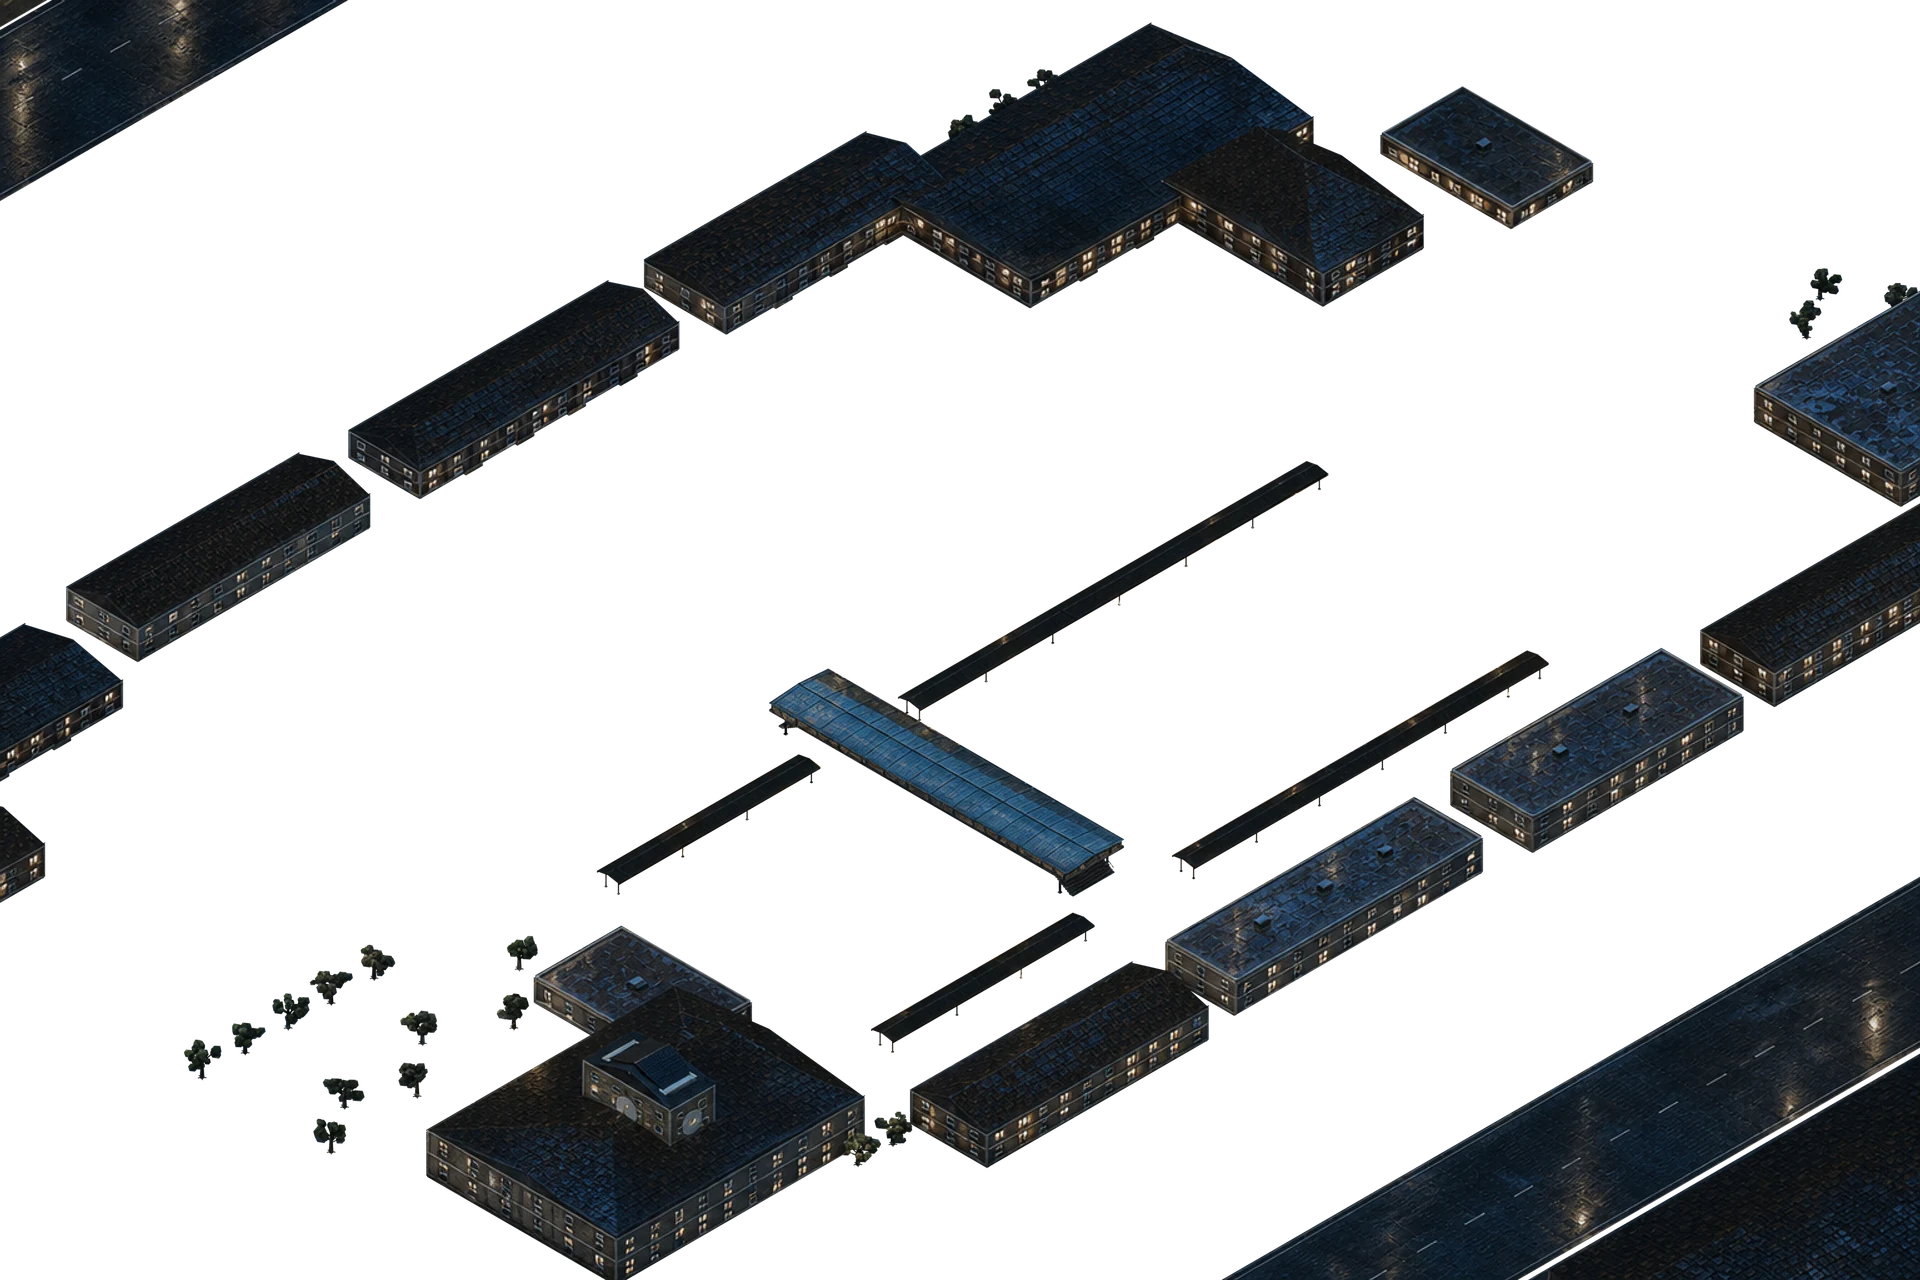
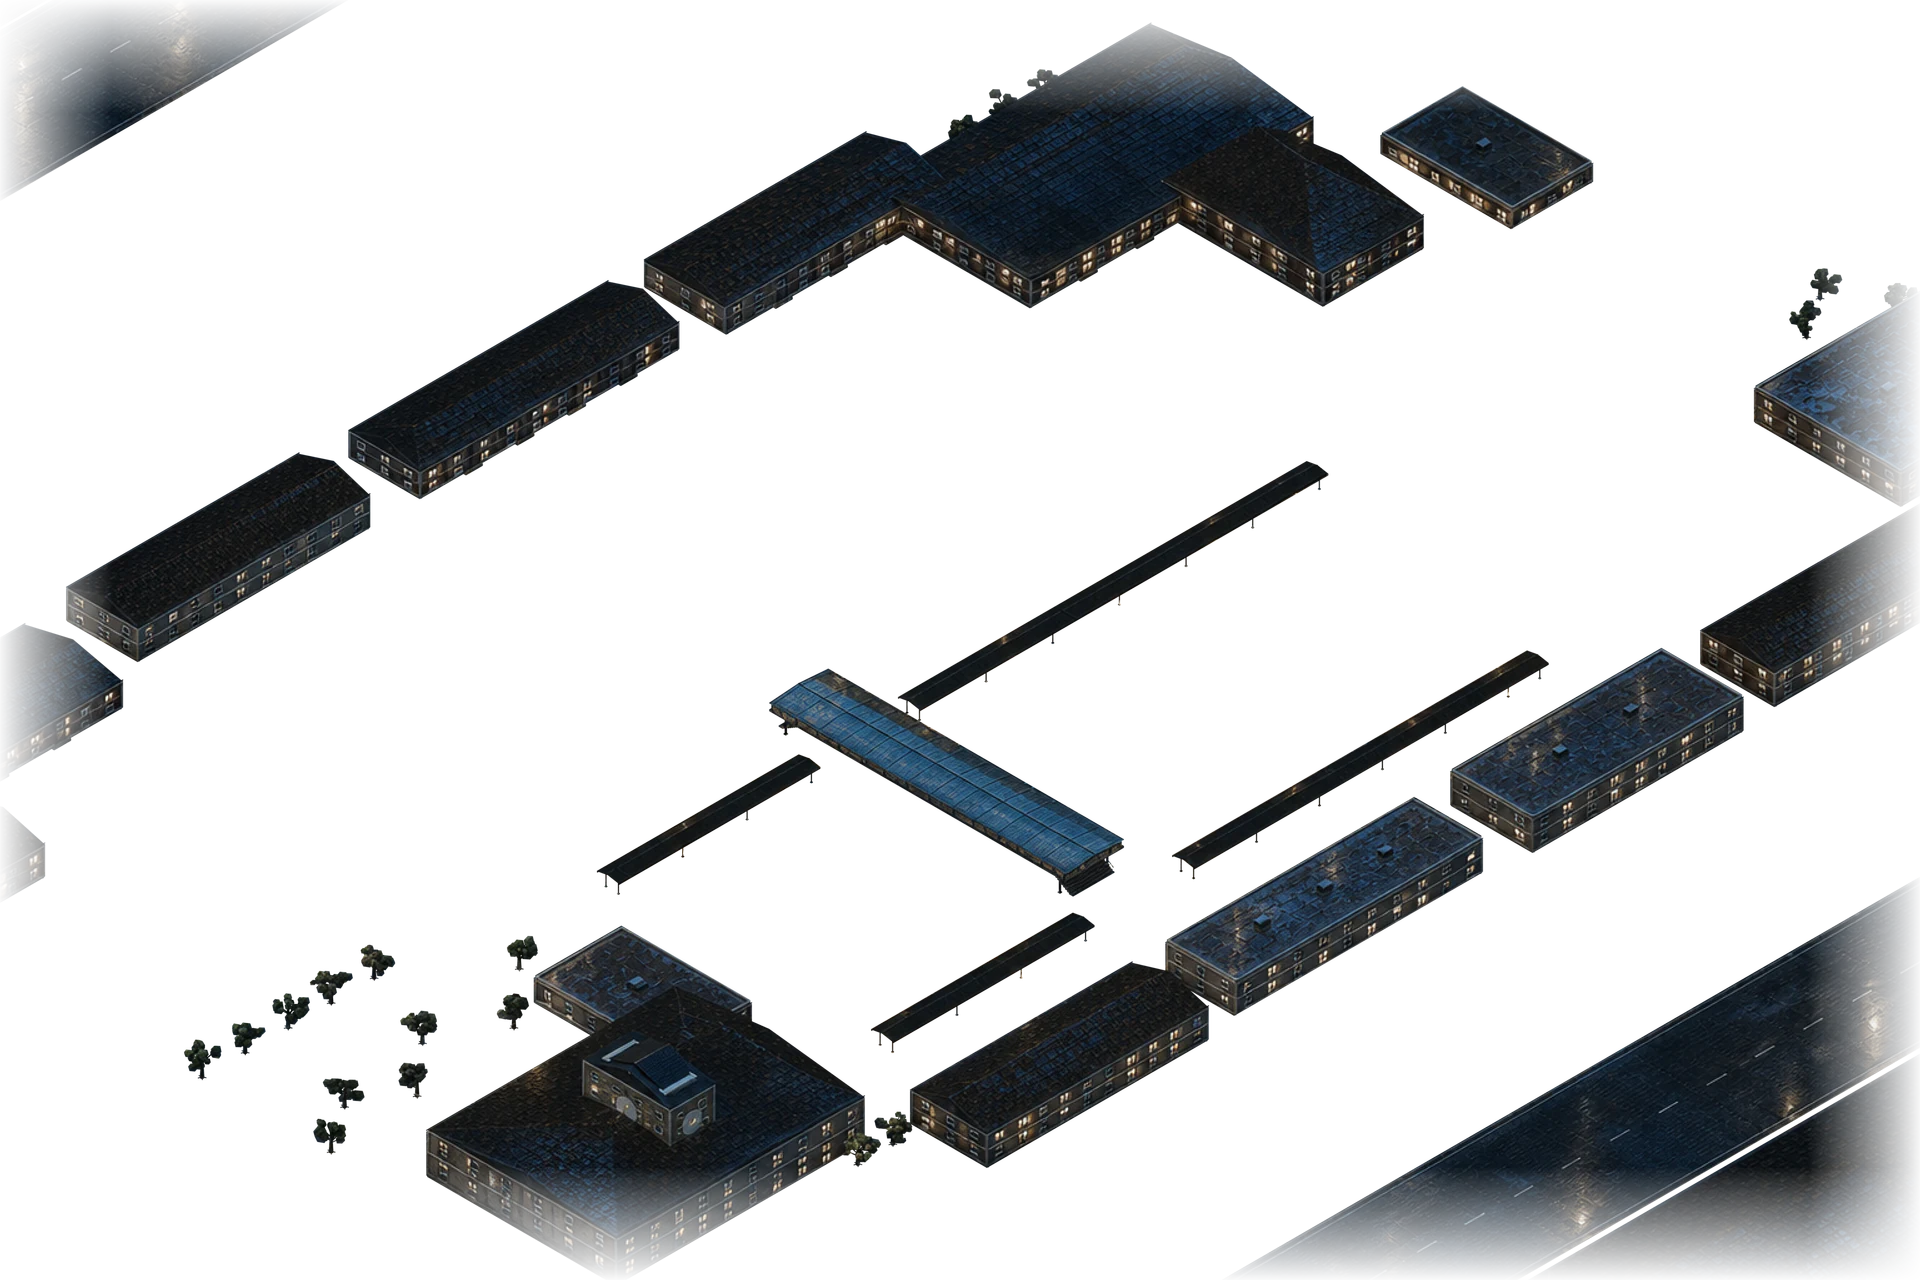
feat: nicer buildings

diff --git a/tests/core.test.ts b/tests/core.test.ts
@@ -443,13 +443,27 @@ describe('data-driven environment artwork', () => {
       });
 
       const runtime = locationPath('vatra-central-station', `views/${view}.webp`);
-      expect(await sharp(runtime).metadata()).toMatchObject({
+      const runtimeImage = sharp(runtime);
+      expect(await runtimeImage.metadata()).toMatchObject({
         width: 1920,
         height: 1280,
+        hasAlpha: true,
       });
-      const occlusion = sharp(
-        locationPath('vatra-central-station', `occlusion-3d/${view}.webp`),
+      const runtimeAlpha = await runtimeImage.extractChannel('alpha').raw().toBuffer();
+      const alphaAt = (x: number, y: number): number => runtimeAlpha[y * 1920 + x]!;
+      const perimeterAlpha = [
+        ...Array.from({length: 1920}, (_, x) => alphaAt(x, 0)),
+        ...Array.from({length: 1920}, (_, x) => alphaAt(x, 1279)),
+        ...Array.from({length: 1280}, (_, y) => alphaAt(0, y)),
+        ...Array.from({length: 1280}, (_, y) => alphaAt(1919, y)),
+      ];
+      expect(Math.max(...perimeterAlpha)).toBeLessThanOrEqual(10);
+      expect(alphaAt(960, 640)).toBeGreaterThanOrEqual(253);
+      const occlusionPath = locationPath(
+        'vatra-central-station',
+        `occlusion-3d/${view}.webp`,
       );
+      const occlusion = sharp(occlusionPath);
       expect(await occlusion.metadata()).toMatchObject({
         width: 1920,
         height: 1280,
@@ -460,6 +474,19 @@ describe('data-driven environment artwork', () => {
       expect(alpha.max).toBe(255);
       expect(alpha.mean).toBeGreaterThan(20);
       expect(alpha.mean).toBeLessThan(120);
+      const occlusionAlpha = await sharp(occlusionPath)
+        .extractChannel('alpha')
+        .raw()
+        .toBuffer();
+      const occlusionAlphaAt = (x: number, y: number): number =>
+        occlusionAlpha[y * 1920 + x]!;
+      const occlusionPerimeterAlpha = [
+        ...Array.from({length: 1920}, (_, x) => occlusionAlphaAt(x, 0)),
+        ...Array.from({length: 1920}, (_, x) => occlusionAlphaAt(x, 1279)),
+        ...Array.from({length: 1280}, (_, y) => occlusionAlphaAt(0, y)),
+        ...Array.from({length: 1280}, (_, y) => occlusionAlphaAt(1919, y)),
+      ];
+      expect(Math.max(...occlusionPerimeterAlpha)).toBeLessThanOrEqual(10);
     }
 
     const processor = readFileSync('tools/process-vatra-renders.mjs', 'utf8');

diff --git a/e2e/game.spec.ts b/e2e/game.spec.ts
@@ -169,6 +169,34 @@ const tacticalVisualMetrics = async (
     };
   }, viewId);
 
+const tacticalPerimeterAlpha = async (
+  page: Page,
+  viewId: string,
+): Promise<{edgeMax: number; edgeMean: number; center: number}> =>
+  page.evaluate(async (id) => {
+    const image = new Image();
+    image.src = `content/locations/vatra-central-station/views/${id}.webp`;
+    await image.decode();
+    const canvas = document.createElement('canvas');
+    canvas.width = 240;
+    canvas.height = 160;
+    const context = canvas.getContext('2d')!;
+    context.drawImage(image, 0, 0, canvas.width, canvas.height);
+    const pixels = context.getImageData(0, 0, canvas.width, canvas.height).data;
+    const alphaAt = (x: number, y: number): number => pixels[(y * canvas.width + x) * 4 + 3]!;
+    const edgeAlpha = [
+      ...Array.from({length: canvas.width}, (_, x) => alphaAt(x, 0)),
+      ...Array.from({length: canvas.width}, (_, x) => alphaAt(x, canvas.height - 1)),
+      ...Array.from({length: canvas.height}, (_, y) => alphaAt(0, y)),
+      ...Array.from({length: canvas.height}, (_, y) => alphaAt(canvas.width - 1, y)),
+    ];
+    return {
+      edgeMax: Math.max(...edgeAlpha),
+      edgeMean: edgeAlpha.reduce((sum, alpha) => sum + alpha, 0) / edgeAlpha.length,
+      center: alphaAt(120, 80),
+    };
+  }, viewId);
+
 interface TouchPoint {
   id: number;
   x: number;
@@ -400,6 +428,10 @@ test('every tactical view zooms out to a complete portrait map', async ({page}) 
     // authored surface/architecture detail better than a bright-scene variance floor.
     expect(visualMetrics.deviation).toBeGreaterThan(12);
     expect(visualMetrics.meanHorizontalEdge).toBeGreaterThan(4.8);
+    const perimeterAlpha = await tacticalPerimeterAlpha(page, id);
+    expect(perimeterAlpha.edgeMax).toBeLessThan(20);
+    expect(perimeterAlpha.edgeMean).toBeLessThan(16);
+    expect(perimeterAlpha.center).toBeGreaterThan(245);
     await zoomOutToFullMap(page);
     if (index < 3) {
       await page.locator('[data-zoom-in]').click();
